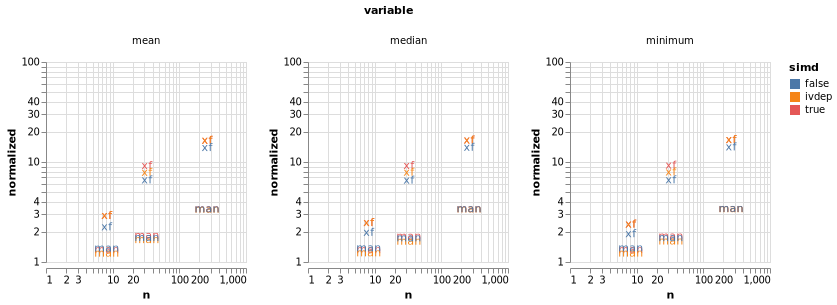
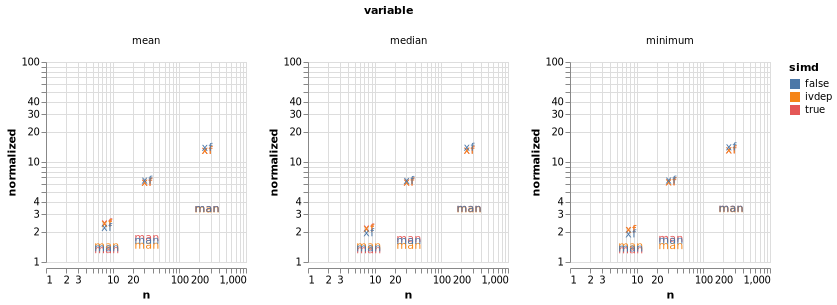
build based on 68df43a

diff --git a/v0.2.0/search_index.js b/v0.2.0/search_index.js
@@ -1,3 +1,3 @@
 var documenterSearchIndex = {"docs":
-[{"location":"#TransducersBenchmarksReports.jl-1","page":"Home","title":"TransducersBenchmarksReports.jl","text":"","category":"section"},{"location":"#","page":"Home","title":"Home","text":"","category":"page"},{"location":"generated/results/#Benchmark-Report-for-*/home/travis/.julia/packages/Transducers/ygk7a*-1","page":"Results","title":"Benchmark Report for /home/travis/.julia/packages/Transducers/ygk7a","text":"","category":"section"},{"location":"generated/results/#Job-Properties-1","page":"Results","title":"Job Properties","text":"","category":"section"},{"location":"generated/results/#","page":"Results","title":"Results","text":"Time of benchmark: 13 Jul 2019 - 23:47\nPackage commit: non gi\nJulia commit: 55e36c\nJulia command flags: None\nEnvironment variables: OMP_NUM_THREADS => 1 JULIA_NUM_THREADS => 1","category":"page"},{"location":"generated/results/#Results-1","page":"Results","title":"Results","text":"","category":"section"},{"location":"generated/results/#","page":"Results","title":"Results","text":"Below is a table of this job's results, obtained by running the benchmarks. The values listed in the ID column have the structure [parent_group, child_group, ..., key], and can be used to index into the BaseBenchmarks suite to retrieve the corresponding benchmarks. The percentages accompanying time and memory values in the below table are noise tolerances. The \"true\" time/memory value for a given benchmark is expected to fall within this percentage of the reported value. An empty cell means that the value was zero.","category":"page"},{"location":"generated/results/#","page":"Results","title":"Results","text":"ID time GC time memory allocations\n[\"dot\", \"blas\"] 2.208 μs (5%)   \n[\"dot\", \"man\"] 2.173 μs (5%)   \n[\"dot\", \"rf\"] 2.146 μs (5%)   \n[\"dot\", \"xf\"] 2.171 μs (5%)   \n[\"filter_map_map!\", \"man\"] 82.998 μs (5%)   \n[\"filter_map_map!\", \"xf\"] 88.818 μs (5%)  144 bytes (1%) 8\n[\"filter_map_reduce\", \"man\"] 266.897 μs (5%)   \n[\"filter_map_reduce\", \"xf\"] 267.193 μs (5%)   \n[\"gemm\", \"linalg\", \"256\"] 1.179 ms (5%)   \n[\"gemm\", \"linalg\", \"32\"] 4.987 μs (5%)   \n[\"gemm\", \"linalg\", \"8\"] 350.466 ns (5%)   \n[\"gemm\", \"man\", \"false\", \"256\"] 4.002 ms (5%)   \n[\"gemm\", \"man\", \"false\", \"32\"] 8.642 μs (5%)   \n[\"gemm\", \"man\", \"false\", \"8\"] 479.277 ns (5%)   \n[\"gemm\", \"man\", \"ivdep\", \"256\"] 3.972 ms (5%)   \n[\"gemm\", \"man\", \"ivdep\", \"32\"] 7.990 μs (5%)   \n[\"gemm\", \"man\", \"ivdep\", \"8\"] 425.025 ns (5%)   \n[\"gemm\", \"man\", \"true\", \"256\"] 3.997 ms (5%)   \n[\"gemm\", \"man\", \"true\", \"32\"] 8.967 μs (5%)   \n[\"gemm\", \"man\", \"true\", \"8\"] 460.365 ns (5%)   \n[\"gemm\", \"xf\", \"false\", \"256\"] 16.492 ms (5%)  96 bytes (1%) 4\n[\"gemm\", \"xf\", \"false\", \"32\"] 32.673 μs (5%)  96 bytes (1%) 4\n[\"gemm\", \"xf\", \"false\", \"8\"] 664.639 ns (5%)  96 bytes (1%) 4\n[\"gemm\", \"xf\", \"ivdep\", \"256\"] 19.532 ms (5%)  96 bytes (1%) 4\n[\"gemm\", \"xf\", \"ivdep\", \"32\"] 39.179 μs (5%)  96 bytes (1%) 4\n[\"gemm\", \"xf\", \"ivdep\", \"8\"] 829.141 ns (5%)  96 bytes (1%) 4\n[\"gemm\", \"xf\", \"true\", \"256\"] 19.514 ms (5%)  96 bytes (1%) 4\n[\"gemm\", \"xf\", \"true\", \"32\"] 45.819 μs (5%)  96 bytes (1%) 4\n[\"gemm\", \"xf\", \"true\", \"8\"] 829.065 ns (5%)  96 bytes (1%) 4\n[\"missing_argmax\", \"man\"] 1.367 μs (5%)  32 bytes (1%) 1\n[\"missing_argmax\", \"rf\"] 1.499 μs (5%)  32 bytes (1%) 1\n[\"missing_argmax\", \"xf\"] 1.513 μs (5%)  32 bytes (1%) 1\n[\"missing_dot\", \"equiv\"] 1.613 μs (5%)  16 bytes (1%) 1\n[\"missing_dot\", \"man\"] 1.494 μs (5%)  16 bytes (1%) 1\n[\"missing_dot\", \"naive\"] 5.231 μs (5%)  16 bytes (1%) 1\n[\"missing_dot\", \"rf\"] 1.503 μs (5%)  16 bytes (1%) 1\n[\"missing_dot\", \"rf_nota\"] 1.619 μs (5%)  16 bytes (1%) 1\n[\"missing_dot\", \"xf\"] 238.943 μs (5%)  74.02 KiB (1%) 3866\n[\"missing_dot\", \"xf_nota\"] 240.539 μs (5%)  74.09 KiB (1%) 3868\n[\"partition_by\", \"man\"] 2.206 ms (5%)  352 bytes (1%) 4\n[\"partition_by\", \"xf\"] 2.069 ms (5%)  512 bytes (1%) 8","category":"page"},{"location":"generated/results/#Benchmark-Group-List-1","page":"Results","title":"Benchmark Group List","text":"","category":"section"},{"location":"generated/results/#","page":"Results","title":"Results","text":"Here's a list of all the benchmark groups executed by this job:","category":"page"},{"location":"generated/results/#","page":"Results","title":"Results","text":"[\"dot\"]\n[\"filter_map_map!\"]\n[\"filter_map_reduce\"]\n[\"gemm\", \"linalg\"]\n[\"gemm\", \"man\", \"false\"]\n[\"gemm\", \"man\", \"ivdep\"]\n[\"gemm\", \"man\", \"true\"]\n[\"gemm\", \"xf\", \"false\"]\n[\"gemm\", \"xf\", \"ivdep\"]\n[\"gemm\", \"xf\", \"true\"]\n[\"missing_argmax\"]\n[\"missing_dot\"]\n[\"partition_by\"]","category":"page"},{"location":"generated/results/#Julia-versioninfo-1","page":"Results","title":"Julia versioninfo","text":"","category":"section"},{"location":"generated/results/#","page":"Results","title":"Results","text":"Julia Version 1.1.1\nCommit 55e36cc308 (2019-05-16 04:10 UTC)\nPlatform Info:\n  OS: Linux (x86_64-pc-linux-gnu)\n      Ubuntu 16.04.6 LTS\n  uname: Linux 4.15.0-1028-gcp #29~16.04.1-Ubuntu SMP Tue Feb 12 16:31:10 UTC 2019 x86_64 x86_64\n  CPU: Intel(R) Xeon(R) CPU @ 2.30GHz: \n              speed         user         nice          sys         idle          irq\n       #1  2300 MHz      21626 s          0 s       1661 s      26126 s          0 s\n       #2  2300 MHz      26900 s          0 s       1692 s      21497 s          0 s\n       \n  Memory: 7.297847747802734 GB (5270.109375 MB free)\n  Uptime: 505.0 sec\n  Load Avg:  1.01513671875  0.8701171875  0.46923828125\n  WORD_SIZE: 64\n  LIBM: libopenlibm\n  LLVM: libLLVM-6.0.1 (ORCJIT, haswell)","category":"page"},{"location":"gemm/#bench_gemm.jl-result-1","page":"GEMM","title":"bench_gemm.jl result","text":"","category":"section"},{"location":"gemm/#","page":"GEMM","title":"GEMM","text":"Base.include(@__MODULE__, \"../reporters/gemm.jl\")\nopen(io -> show(io, \"image/png\", plt), \"gemm.png\", \"w\")","category":"page"},{"location":"gemm/#","page":"GEMM","title":"GEMM","text":"(Image: )","category":"page"}]
+[{"location":"#TransducersBenchmarksReports.jl-1","page":"Home","title":"TransducersBenchmarksReports.jl","text":"","category":"section"},{"location":"#","page":"Home","title":"Home","text":"","category":"page"},{"location":"generated/results/#Benchmark-Report-for-*/home/travis/.julia/packages/Transducers/ygk7a*-1","page":"Results","title":"Benchmark Report for /home/travis/.julia/packages/Transducers/ygk7a","text":"","category":"section"},{"location":"generated/results/#Job-Properties-1","page":"Results","title":"Job Properties","text":"","category":"section"},{"location":"generated/results/#","page":"Results","title":"Results","text":"Time of benchmark: 14 Jul 2019 - 0:42\nPackage commit: non gi\nJulia commit: 55e36c\nJulia command flags: None\nEnvironment variables: OMP_NUM_THREADS => 1 JULIA_NUM_THREADS => 1","category":"page"},{"location":"generated/results/#Results-1","page":"Results","title":"Results","text":"","category":"section"},{"location":"generated/results/#","page":"Results","title":"Results","text":"Below is a table of this job's results, obtained by running the benchmarks. The values listed in the ID column have the structure [parent_group, child_group, ..., key], and can be used to index into the BaseBenchmarks suite to retrieve the corresponding benchmarks. The percentages accompanying time and memory values in the below table are noise tolerances. The \"true\" time/memory value for a given benchmark is expected to fall within this percentage of the reported value. An empty cell means that the value was zero.","category":"page"},{"location":"generated/results/#","page":"Results","title":"Results","text":"ID time GC time memory allocations\n[\"dot\", \"blas\"] 2.181 μs (5%)   \n[\"dot\", \"man\"] 2.176 μs (5%)   \n[\"dot\", \"rf\"] 2.148 μs (5%)   \n[\"dot\", \"xf\"] 2.156 μs (5%)   \n[\"filter_map_map!\", \"man\"] 75.661 μs (5%)   \n[\"filter_map_map!\", \"xf\"] 79.753 μs (5%)  144 bytes (1%) 8\n[\"filter_map_reduce\", \"man\"] 266.582 μs (5%)   \n[\"filter_map_reduce\", \"xf\"] 266.665 μs (5%)   \n[\"gemm\", \"linalg\", \"256\"] 1.177 ms (5%)   \n[\"gemm\", \"linalg\", \"32\"] 5.014 μs (5%)   \n[\"gemm\", \"linalg\", \"8\"] 351.202 ns (5%)   \n[\"gemm\", \"man\", \"false\", \"256\"] 4.014 ms (5%)   \n[\"gemm\", \"man\", \"false\", \"32\"] 8.183 μs (5%)   \n[\"gemm\", \"man\", \"false\", \"8\"] 478.277 ns (5%)   \n[\"gemm\", \"man\", \"ivdep\", \"256\"] 3.968 ms (5%)   \n[\"gemm\", \"man\", \"ivdep\", \"32\"] 7.228 μs (5%)   \n[\"gemm\", \"man\", \"ivdep\", \"8\"] 503.715 ns (5%)   \n[\"gemm\", \"man\", \"true\", \"256\"] 4.013 ms (5%)   \n[\"gemm\", \"man\", \"true\", \"32\"] 8.539 μs (5%)   \n[\"gemm\", \"man\", \"true\", \"8\"] 459.721 ns (5%)   \n[\"gemm\", \"xf\", \"false\", \"256\"] 16.506 ms (5%)  96 bytes (1%) 4\n[\"gemm\", \"xf\", \"false\", \"32\"] 32.662 μs (5%)  96 bytes (1%) 4\n[\"gemm\", \"xf\", \"false\", \"8\"] 663.312 ns (5%)  96 bytes (1%) 4\n[\"gemm\", \"xf\", \"ivdep\", \"256\"] 15.383 ms (5%)  96 bytes (1%) 4\n[\"gemm\", \"xf\", \"ivdep\", \"32\"] 31.388 μs (5%)  96 bytes (1%) 4\n[\"gemm\", \"xf\", \"ivdep\", \"8\"] 734.094 ns (5%)  96 bytes (1%) 4\n[\"gemm\", \"xf\", \"true\", \"256\"] 15.388 ms (5%)  96 bytes (1%) 4\n[\"gemm\", \"xf\", \"true\", \"32\"] 31.381 μs (5%)  96 bytes (1%) 4\n[\"gemm\", \"xf\", \"true\", \"8\"] 735.312 ns (5%)  96 bytes (1%) 4\n[\"missing_argmax\", \"man\"] 1.365 μs (5%)  32 bytes (1%) 1\n[\"missing_argmax\", \"rf\"] 1.542 μs (5%)  32 bytes (1%) 1\n[\"missing_argmax\", \"xf\"] 1.545 μs (5%)  32 bytes (1%) 1\n[\"missing_dot\", \"equiv\"] 1.609 μs (5%)  16 bytes (1%) 1\n[\"missing_dot\", \"man\"] 1.496 μs (5%)  16 bytes (1%) 1\n[\"missing_dot\", \"naive\"] 5.226 μs (5%)  16 bytes (1%) 1\n[\"missing_dot\", \"rf\"] 1.504 μs (5%)  16 bytes (1%) 1\n[\"missing_dot\", \"rf_nota\"] 1.630 μs (5%)  16 bytes (1%) 1\n[\"missing_dot\", \"xf\"] 240.034 μs (5%)  74.08 KiB (1%) 3863\n[\"missing_dot\", \"xf_nota\"] 238.818 μs (5%)  73.88 KiB (1%) 3858\n[\"partition_by\", \"man\"] 2.204 ms (5%)  352 bytes (1%) 4\n[\"partition_by\", \"xf\"] 2.076 ms (5%)  512 bytes (1%) 8","category":"page"},{"location":"generated/results/#Benchmark-Group-List-1","page":"Results","title":"Benchmark Group List","text":"","category":"section"},{"location":"generated/results/#","page":"Results","title":"Results","text":"Here's a list of all the benchmark groups executed by this job:","category":"page"},{"location":"generated/results/#","page":"Results","title":"Results","text":"[\"dot\"]\n[\"filter_map_map!\"]\n[\"filter_map_reduce\"]\n[\"gemm\", \"linalg\"]\n[\"gemm\", \"man\", \"false\"]\n[\"gemm\", \"man\", \"ivdep\"]\n[\"gemm\", \"man\", \"true\"]\n[\"gemm\", \"xf\", \"false\"]\n[\"gemm\", \"xf\", \"ivdep\"]\n[\"gemm\", \"xf\", \"true\"]\n[\"missing_argmax\"]\n[\"missing_dot\"]\n[\"partition_by\"]","category":"page"},{"location":"generated/results/#Julia-versioninfo-1","page":"Results","title":"Julia versioninfo","text":"","category":"section"},{"location":"generated/results/#","page":"Results","title":"Results","text":"Julia Version 1.1.1\nCommit 55e36cc308 (2019-05-16 04:10 UTC)\nPlatform Info:\n  OS: Linux (x86_64-pc-linux-gnu)\n      Ubuntu 16.04.6 LTS\n  uname: Linux 4.15.0-1028-gcp #29~16.04.1-Ubuntu SMP Tue Feb 12 16:31:10 UTC 2019 x86_64 x86_64\n  CPU: Intel(R) Xeon(R) CPU @ 2.30GHz: \n              speed         user         nice          sys         idle          irq\n       #1  2300 MHz      18779 s          0 s       1623 s      26971 s          0 s\n       #2  2300 MHz      27584 s          0 s       1459 s      18582 s          0 s\n       \n  Memory: 7.297847747802734 GB (5280.0390625 MB free)\n  Uptime: 486.0 sec\n  Load Avg:  1.0  0.87255859375  0.47509765625\n  WORD_SIZE: 64\n  LIBM: libopenlibm\n  LLVM: libLLVM-6.0.1 (ORCJIT, haswell)","category":"page"},{"location":"gemm/#bench_gemm.jl-result-1","page":"GEMM","title":"bench_gemm.jl result","text":"","category":"section"},{"location":"gemm/#","page":"GEMM","title":"GEMM","text":"Base.include(@__MODULE__, \"../reporters/gemm.jl\")\nopen(io -> show(io, \"image/png\", plt), \"gemm.png\", \"w\")","category":"page"},{"location":"gemm/#","page":"GEMM","title":"GEMM","text":"(Image: )","category":"page"},{"location":"gemm/#Transducers-vs-manual-implementation-1","page":"GEMM","title":"Transducers vs manual implementation","text":"","category":"section"},{"location":"gemm/#","page":"GEMM","title":"GEMM","text":"using BenchmarkTools\nusing PkgBenchmark: benchmarkgroup, export_markdown\nusing TransducersBenchmarksReports: loadresult\nusing Setfield: @set\nusing Markdown\n\nresults = loadresult()\ngroup = benchmarkgroup(results)[\"gemm\"]\nresults_xf = @set results.benchmarkgroup = group[\"xf\"]\nresults_man = @set results.benchmarkgroup = group[\"man\"]\n\nlet md = sprint(export_markdown, judge(results_xf, results_man))\n    md = replace(md, \":x:\" => \"❌\")\n    md = replace(md, \":white_check_mark:\" => \"✅\")\n    Markdown.parse(md)\nend","category":"page"}]
 }

diff --git a/v0.2.0/gemm/index.html b/v0.2.0/gemm/index.html
@@ -1,2 +1,34 @@
 <!DOCTYPE html>
-<html lang="en"><head><meta charset="UTF-8"/><meta name="viewport" content="width=device-width, initial-scale=1.0"/><title>GEMM · TransducersBenchmarksReports.jl</title><link href="https://cdnjs.cloudflare.com/ajax/libs/normalize/4.2.0/normalize.min.css" rel="stylesheet" type="text/css"/><link href="https://fonts.googleapis.com/css?family=Lato|Roboto+Mono" rel="stylesheet" type="text/css"/><link href="https://cdnjs.cloudflare.com/ajax/libs/font-awesome/4.6.3/css/font-awesome.min.css" rel="stylesheet" type="text/css"/><link href="https://cdnjs.cloudflare.com/ajax/libs/highlight.js/9.12.0/styles/default.min.css" rel="stylesheet" type="text/css"/><script>documenterBaseURL=".."</script><script src="https://cdnjs.cloudflare.com/ajax/libs/require.js/2.2.0/require.min.js" data-main="../assets/documenter.js"></script><script src="../siteinfo.js"></script><script src="../../versions.js"></script><link href="../assets/documenter.css" rel="stylesheet" type="text/css"/></head><body><nav class="toc"><h1>TransducersBenchmarksReports.jl</h1><select id="version-selector" onChange="window.location.href=this.value" style="visibility: hidden"></select><form class="search" id="search-form" action="../search/"><input id="search-query" name="q" type="text" placeholder="Search docs"/></form><ul><li><a class="toctext" href="../">Home</a></li><li><a class="toctext" href="../generated/results/">Results</a></li><li class="current"><a class="toctext" href>GEMM</a><ul class="internal"></ul></li></ul></nav><article id="docs"><header><nav><ul><li><a href>GEMM</a></li></ul><a class="edit-page" href="https://github.com/tkf/TransducersBenchmarksReports.jl/blob/master/docs/src/gemm.md#L"><span class="fa"></span> Edit on GitHub</a></nav><hr/><div id="topbar"><span>GEMM</span><a class="fa fa-bars" href="#"></a></div></header><h1><a class="nav-anchor" id="bench_gemm.jl-result-1" href="#bench_gemm.jl-result-1"><code>bench_gemm.jl</code> result</a></h1><p><img src="/gemm.png" alt/></p><footer><hr/><a class="previous" href="../generated/results/"><span class="direction">Previous</span><span class="title">Results</span></a></footer></article></body></html>
+<html lang="en"><head><meta charset="UTF-8"/><meta name="viewport" content="width=device-width, initial-scale=1.0"/><title>GEMM · TransducersBenchmarksReports.jl</title><link href="https://cdnjs.cloudflare.com/ajax/libs/normalize/4.2.0/normalize.min.css" rel="stylesheet" type="text/css"/><link href="https://fonts.googleapis.com/css?family=Lato|Roboto+Mono" rel="stylesheet" type="text/css"/><link href="https://cdnjs.cloudflare.com/ajax/libs/font-awesome/4.6.3/css/font-awesome.min.css" rel="stylesheet" type="text/css"/><link href="https://cdnjs.cloudflare.com/ajax/libs/highlight.js/9.12.0/styles/default.min.css" rel="stylesheet" type="text/css"/><script>documenterBaseURL=".."</script><script src="https://cdnjs.cloudflare.com/ajax/libs/require.js/2.2.0/require.min.js" data-main="../assets/documenter.js"></script><script src="../siteinfo.js"></script><script src="../../versions.js"></script><link href="../assets/documenter.css" rel="stylesheet" type="text/css"/></head><body><nav class="toc"><h1>TransducersBenchmarksReports.jl</h1><select id="version-selector" onChange="window.location.href=this.value" style="visibility: hidden"></select><form class="search" id="search-form" action="../search/"><input id="search-query" name="q" type="text" placeholder="Search docs"/></form><ul><li><a class="toctext" href="../">Home</a></li><li><a class="toctext" href="../generated/results/">Results</a></li><li class="current"><a class="toctext" href>GEMM</a><ul class="internal"><li><a class="toctext" href="#Transducers-vs-manual-implementation-1">Transducers vs manual implementation</a></li></ul></li></ul></nav><article id="docs"><header><nav><ul><li><a href>GEMM</a></li></ul><a class="edit-page" href="https://github.com/tkf/TransducersBenchmarksReports.jl/blob/master/docs/src/gemm.md#L"><span class="fa"></span> Edit on GitHub</a></nav><hr/><div id="topbar"><span>GEMM</span><a class="fa fa-bars" href="#"></a></div></header><h1><a class="nav-anchor" id="bench_gemm.jl-result-1" href="#bench_gemm.jl-result-1"><code>bench_gemm.jl</code> result</a></h1><p><img src="../gemm.png" alt/></p><h2><a class="nav-anchor" id="Transducers-vs-manual-implementation-1" href="#Transducers-vs-manual-implementation-1">Transducers vs manual implementation</a></h2><div><h1>Benchmark Report for <em>/home/travis/.julia/packages/Transducers/ygk7a</em></h1><h2>Job Properties</h2><ul><li>Time of benchmarks:<ul><li>Target: 14 Jul 2019 - 00:42</li><li>Baseline: 14 Jul 2019 - 00:42</li></ul></li><li>Package commits:<ul><li>Target: non gi</li><li>Baseline: non gi</li></ul></li><li>Julia commits:<ul><li>Target: 55e36c</li><li>Baseline: 55e36c</li></ul></li><li>Julia command flags:<ul><li>Target: None</li><li>Baseline: None</li></ul></li><li>Environment variables:<ul><li>Target: <code>OMP_NUM_THREADS =&gt; 1</code> <code>JULIA_NUM_THREADS =&gt; 1</code></li><li>Baseline: <code>OMP_NUM_THREADS =&gt; 1</code> <code>JULIA_NUM_THREADS =&gt; 1</code></li></ul></li></ul><h2>Results</h2><p>A ratio greater than <code>1.0</code> denotes a possible regression (marked with ❌), while a ratio less than <code>1.0</code> denotes a possible improvement (marked with ✅). Only significant results - results that indicate possible regressions or improvements - are shown below (thus, an empty table means that all benchmark results remained invariant between builds).</p><table><tr><th style="text-align: right">ID</th><th style="text-align: right">time ratio</th><th style="text-align: right">memory ratio</th></tr><tr><td style="text-align: right"><code>[&quot;false&quot;, &quot;256&quot;]</code></td><td style="text-align: right">4.11 (5%) ❌</td><td style="text-align: right">Inf (1%) ❌</td></tr><tr><td style="text-align: right"><code>[&quot;false&quot;, &quot;32&quot;]</code></td><td style="text-align: right">3.99 (5%) ❌</td><td style="text-align: right">Inf (1%) ❌</td></tr><tr><td style="text-align: right"><code>[&quot;false&quot;, &quot;8&quot;]</code></td><td style="text-align: right">1.39 (5%) ❌</td><td style="text-align: right">Inf (1%) ❌</td></tr><tr><td style="text-align: right"><code>[&quot;ivdep&quot;, &quot;256&quot;]</code></td><td style="text-align: right">3.88 (5%) ❌</td><td style="text-align: right">Inf (1%) ❌</td></tr><tr><td style="text-align: right"><code>[&quot;ivdep&quot;, &quot;32&quot;]</code></td><td style="text-align: right">4.34 (5%) ❌</td><td style="text-align: right">Inf (1%) ❌</td></tr><tr><td style="text-align: right"><code>[&quot;ivdep&quot;, &quot;8&quot;]</code></td><td style="text-align: right">1.46 (5%) ❌</td><td style="text-align: right">Inf (1%) ❌</td></tr><tr><td style="text-align: right"><code>[&quot;true&quot;, &quot;256&quot;]</code></td><td style="text-align: right">3.83 (5%) ❌</td><td style="text-align: right">Inf (1%) ❌</td></tr><tr><td style="text-align: right"><code>[&quot;true&quot;, &quot;32&quot;]</code></td><td style="text-align: right">3.67 (5%) ❌</td><td style="text-align: right">Inf (1%) ❌</td></tr><tr><td style="text-align: right"><code>[&quot;true&quot;, &quot;8&quot;]</code></td><td style="text-align: right">1.60 (5%) ❌</td><td style="text-align: right">Inf (1%) ❌</td></tr></table><h2>Benchmark Group List</h2><p>Here&#39;s a list of all the benchmark groups executed by this job:</p><ul><li><code>[&quot;false&quot;]</code></li><li><code>[&quot;ivdep&quot;]</code></li><li><code>[&quot;true&quot;]</code></li></ul><h2>Julia versioninfo</h2><h3>Target</h3><pre><code class="language-none">Julia Version 1.1.1
+Commit 55e36cc308 (2019-05-16 04:10 UTC)
+Platform Info:
+  OS: Linux (x86_64-pc-linux-gnu)
+      Ubuntu 16.04.6 LTS
+  uname: Linux 4.15.0-1028-gcp #29~16.04.1-Ubuntu SMP Tue Feb 12 16:31:10 UTC 2019 x86_64 x86_64
+  CPU: Intel(R) Xeon(R) CPU @ 2.30GHz: 
+              speed         user         nice          sys         idle          irq
+       #1  2300 MHz      18779 s          0 s       1623 s      26971 s          0 s
+       #2  2300 MHz      27584 s          0 s       1459 s      18582 s          0 s
+       
+  Memory: 7.297847747802734 GB (5280.0390625 MB free)
+  Uptime: 486.0 sec
+  Load Avg:  1.0  0.87255859375  0.47509765625
+  WORD_SIZE: 64
+  LIBM: libopenlibm
+  LLVM: libLLVM-6.0.1 (ORCJIT, haswell)</code></pre><h3>Baseline</h3><pre><code class="language-none">Julia Version 1.1.1
+Commit 55e36cc308 (2019-05-16 04:10 UTC)
+Platform Info:
+  OS: Linux (x86_64-pc-linux-gnu)
+      Ubuntu 16.04.6 LTS
+  uname: Linux 4.15.0-1028-gcp #29~16.04.1-Ubuntu SMP Tue Feb 12 16:31:10 UTC 2019 x86_64 x86_64
+  CPU: Intel(R) Xeon(R) CPU @ 2.30GHz: 
+              speed         user         nice          sys         idle          irq
+       #1  2300 MHz      18779 s          0 s       1623 s      26971 s          0 s
+       #2  2300 MHz      27584 s          0 s       1459 s      18582 s          0 s
+       
+  Memory: 7.297847747802734 GB (5280.0390625 MB free)
+  Uptime: 486.0 sec
+  Load Avg:  1.0  0.87255859375  0.47509765625
+  WORD_SIZE: 64
+  LIBM: libopenlibm
+  LLVM: libLLVM-6.0.1 (ORCJIT, haswell)</code></pre></div><footer><hr/><a class="previous" href="../generated/results/"><span class="direction">Previous</span><span class="title">Results</span></a></footer></article></body></html>

diff --git a/v0.2.0/index.html b/v0.2.0/index.html
@@ -1,2 +1,2 @@
 <!DOCTYPE html>
-<html lang="en"><head><meta charset="UTF-8"/><meta name="viewport" content="width=device-width, initial-scale=1.0"/><title>Home · TransducersBenchmarksReports.jl</title><link href="https://cdnjs.cloudflare.com/ajax/libs/normalize/4.2.0/normalize.min.css" rel="stylesheet" type="text/css"/><link href="https://fonts.googleapis.com/css?family=Lato|Roboto+Mono" rel="stylesheet" type="text/css"/><link href="https://cdnjs.cloudflare.com/ajax/libs/font-awesome/4.6.3/css/font-awesome.min.css" rel="stylesheet" type="text/css"/><link href="https://cdnjs.cloudflare.com/ajax/libs/highlight.js/9.12.0/styles/default.min.css" rel="stylesheet" type="text/css"/><script>documenterBaseURL="."</script><script src="https://cdnjs.cloudflare.com/ajax/libs/require.js/2.2.0/require.min.js" data-main="assets/documenter.js"></script><script src="siteinfo.js"></script><script src="../versions.js"></script><link href="assets/documenter.css" rel="stylesheet" type="text/css"/></head><body><nav class="toc"><h1>TransducersBenchmarksReports.jl</h1><select id="version-selector" onChange="window.location.href=this.value" style="visibility: hidden"></select><form class="search" id="search-form" action="search/"><input id="search-query" name="q" type="text" placeholder="Search docs"/></form><ul><li class="current"><a class="toctext" href>Home</a><ul class="internal"></ul></li><li><a class="toctext" href="generated/results/">Results</a></li><li><a class="toctext" href="gemm/">GEMM</a></li></ul></nav><article id="docs"><header><nav><ul><li><a href>Home</a></li></ul><a class="edit-page" href="https://github.com/tkf/TransducersBenchmarksReports.jl/blob/master/docs/src/index.md#L"><span class="fa"></span> Edit on GitHub</a></nav><hr/><div id="topbar"><span>Home</span><a class="fa fa-bars" href="#"></a></div></header><h1><a class="nav-anchor" id="TransducersBenchmarksReports.jl-1" href="#TransducersBenchmarksReports.jl-1">TransducersBenchmarksReports.jl</a></h1><ul><li><a href="gemm/#bench_gemm.jl-result-1"><code>bench_gemm.jl</code> result</a></li><li><a href="generated/results/#Benchmark-Report-for-*/home/travis/.julia/packages/Transducers/ygk7a*-1">Benchmark Report for <em>/home/travis/.julia/packages/Transducers/ygk7a</em></a></li><ul><li><a href="generated/results/#Job-Properties-1">Job Properties</a></li><li><a href="generated/results/#Results-1">Results</a></li><li><a href="generated/results/#Benchmark-Group-List-1">Benchmark Group List</a></li><li><a href="generated/results/#Julia-versioninfo-1">Julia versioninfo</a></li></ul><li><a href="#TransducersBenchmarksReports.jl-1">TransducersBenchmarksReports.jl</a></li></ul><footer><hr/><a class="next" href="generated/results/"><span class="direction">Next</span><span class="title">Results</span></a></footer></article></body></html>
+<html lang="en"><head><meta charset="UTF-8"/><meta name="viewport" content="width=device-width, initial-scale=1.0"/><title>Home · TransducersBenchmarksReports.jl</title><link href="https://cdnjs.cloudflare.com/ajax/libs/normalize/4.2.0/normalize.min.css" rel="stylesheet" type="text/css"/><link href="https://fonts.googleapis.com/css?family=Lato|Roboto+Mono" rel="stylesheet" type="text/css"/><link href="https://cdnjs.cloudflare.com/ajax/libs/font-awesome/4.6.3/css/font-awesome.min.css" rel="stylesheet" type="text/css"/><link href="https://cdnjs.cloudflare.com/ajax/libs/highlight.js/9.12.0/styles/default.min.css" rel="stylesheet" type="text/css"/><script>documenterBaseURL="."</script><script src="https://cdnjs.cloudflare.com/ajax/libs/require.js/2.2.0/require.min.js" data-main="assets/documenter.js"></script><script src="siteinfo.js"></script><script src="../versions.js"></script><link href="assets/documenter.css" rel="stylesheet" type="text/css"/></head><body><nav class="toc"><h1>TransducersBenchmarksReports.jl</h1><select id="version-selector" onChange="window.location.href=this.value" style="visibility: hidden"></select><form class="search" id="search-form" action="search/"><input id="search-query" name="q" type="text" placeholder="Search docs"/></form><ul><li class="current"><a class="toctext" href>Home</a><ul class="internal"></ul></li><li><a class="toctext" href="generated/results/">Results</a></li><li><a class="toctext" href="gemm/">GEMM</a></li></ul></nav><article id="docs"><header><nav><ul><li><a href>Home</a></li></ul><a class="edit-page" href="https://github.com/tkf/TransducersBenchmarksReports.jl/blob/master/docs/src/index.md#L"><span class="fa"></span> Edit on GitHub</a></nav><hr/><div id="topbar"><span>Home</span><a class="fa fa-bars" href="#"></a></div></header><h1><a class="nav-anchor" id="TransducersBenchmarksReports.jl-1" href="#TransducersBenchmarksReports.jl-1">TransducersBenchmarksReports.jl</a></h1><ul><li><a href="gemm/#bench_gemm.jl-result-1"><code>bench_gemm.jl</code> result</a></li><ul><li><a href="gemm/#Transducers-vs-manual-implementation-1">Transducers vs manual implementation</a></li></ul><li><a href="generated/results/#Benchmark-Report-for-*/home/travis/.julia/packages/Transducers/ygk7a*-1">Benchmark Report for <em>/home/travis/.julia/packages/Transducers/ygk7a</em></a></li><ul><li><a href="generated/results/#Job-Properties-1">Job Properties</a></li><li><a href="generated/results/#Results-1">Results</a></li><li><a href="generated/results/#Benchmark-Group-List-1">Benchmark Group List</a></li><li><a href="generated/results/#Julia-versioninfo-1">Julia versioninfo</a></li></ul><li><a href="#TransducersBenchmarksReports.jl-1">TransducersBenchmarksReports.jl</a></li></ul><footer><hr/><a class="next" href="generated/results/"><span class="direction">Next</span><span class="title">Results</span></a></footer></article></body></html>
